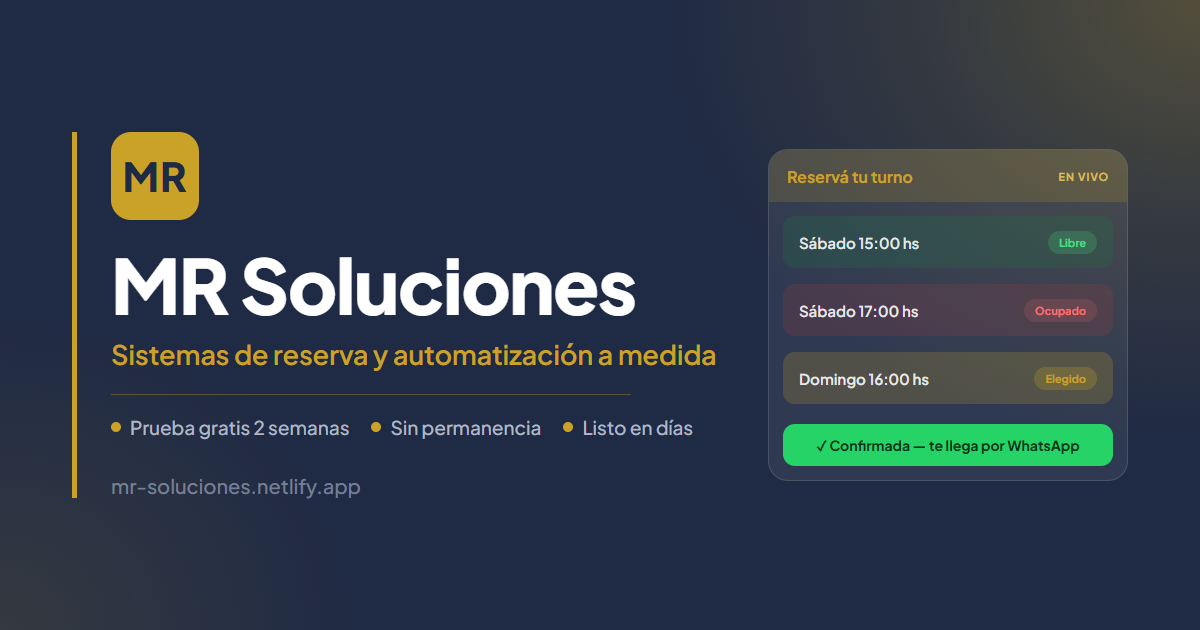
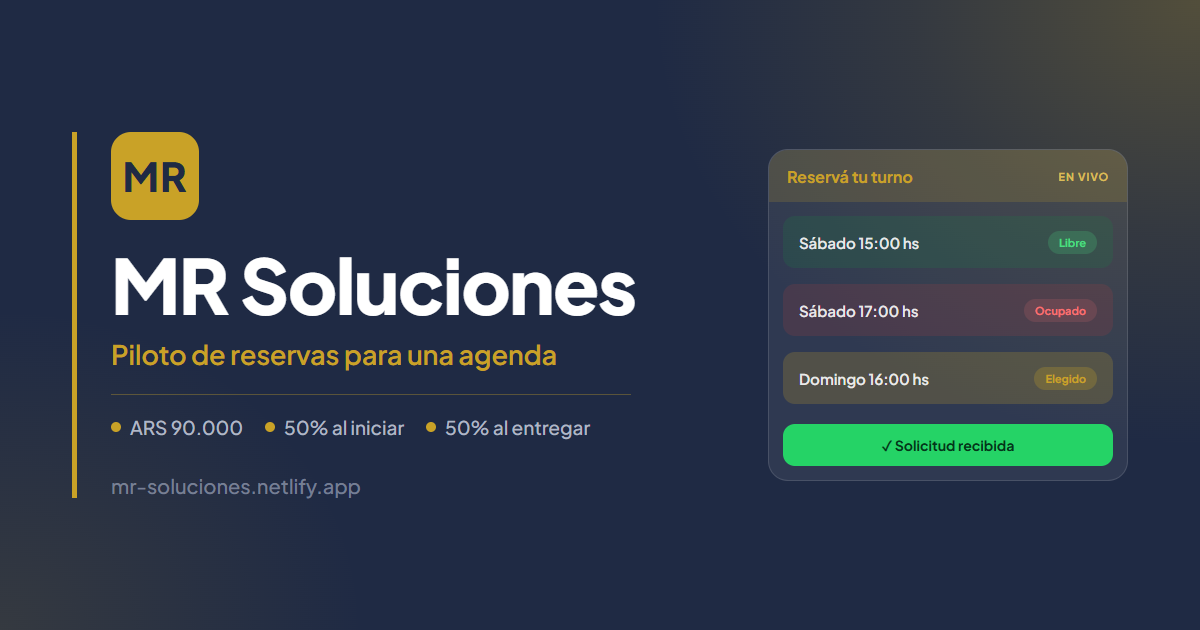
feat: presentar piloto pago de reservas

Changed region(s): [[0.0925, 0.5429, 0.6167, 0.6032], [0.0925, 0.6635, 0.5858, 0.6937], [0.6783, 0.6937, 0.8942, 0.7238]]

diff --git a/index.html b/index.html
@@ -4,13 +4,13 @@
 <meta charset="UTF-8" />
 <meta name="viewport" content="width=device-width, initial-scale=1.0" />
 <title>MR Soluciones — Sistemas de reserva y automatización a medida</title>
-<meta name="description" content="Dejá de perder clientes por desorden de agenda. Sistemas de reserva y automatización a medida para salones de fiestas, peluquerías, consultorios y más. Tu sistema andando en días, no en meses." />
+<meta name="description" content="Piloto de reservas para una agenda: solicitudes y disponibilidad en un solo lugar. ARS 90.000, 50% al iniciar y 50% contra la entrega acordada." />
 <meta name="theme-color" content="#1F2A44" />
 
 <!-- Open Graph (para WhatsApp / redes) -->
 <meta property="og:type" content="website" />
 <meta property="og:title" content="MR Soluciones — Sistemas de reserva a medida" />
-<meta property="og:description" content="Tu sistema de reservas andando en días, no en meses. Probalo gratis 2 semanas." />
+<meta property="og:description" content="Piloto de reservas para una agenda. ARS 90.000: 50% al iniciar y 50% contra la entrega acordada." />
 <meta property="og:image" content="https://mr-soluciones.netlify.app/assets/og.png" />
 <meta property="og:image:width" content="1200" />
 <meta property="og:image:height" content="630" />
@@ -285,20 +285,20 @@
 <section class="hero" id="inicio">
   <div class="wrap grid">
     <div class="reveal">
-      <span class="eyebrow">Sistemas a medida para tu negocio</span>
-      <h1>Dejá de perder clientes por <span class="hl">desorden de agenda</span></h1>
-      <p class="sub">Diseño sistemas de reserva y automatización a medida para tu negocio: turnos online, recordatorios automáticos y todo funcionando sin que vos tengas que estar atrás del teléfono.</p>
+      <span class="eyebrow">Piloto de reservas para tu negocio</span>
+      <h1>Ordená las solicitudes de turno <span class="hl">en un solo lugar</span></h1>
+      <p class="sub">Adapto un flujo de reservas para una agenda. Primero revisamos cómo trabajás; después acordamos el alcance y la prueba funcional antes de empezar.</p>
       <div class="cta-row">
         <a class="btn btn-wa btn-lg" href="#wa-link" data-wa>
           <svg viewBox="0 0 24 24"><path d="M.057 24l1.687-6.163a11.867 11.867 0 01-1.587-5.945C.16 5.335 5.495 0 12.05 0a11.817 11.817 0 018.413 3.488 11.824 11.824 0 013.48 8.414c-.003 6.557-5.338 11.892-11.893 11.892a11.9 11.9 0 01-5.688-1.448L.057 24zM6.597 20.13c1.676.995 3.276 1.591 5.392 1.592 5.448 0 9.886-4.434 9.889-9.885.002-5.462-4.415-9.89-9.881-9.892-5.452 0-9.887 4.434-9.889 9.884a9.86 9.86 0 001.523 5.26l-.999 3.648 3.965-.607zm11.387-5.464c-.074-.124-.272-.198-.57-.347-.297-.149-1.758-.868-2.031-.967-.272-.099-.47-.149-.669.149-.198.297-.768.967-.941 1.165-.173.198-.347.223-.644.074-.297-.149-1.255-.462-2.39-1.475-.883-.788-1.48-1.761-1.653-2.059-.173-.297-.018-.458.13-.606.134-.133.297-.347.446-.521.151-.172.2-.296.3-.495.099-.198.05-.372-.025-.521-.075-.148-.669-1.611-.916-2.206-.242-.579-.487-.501-.669-.51l-.57-.01c-.198 0-.52.074-.792.372s-1.04 1.016-1.04 2.479 1.065 2.876 1.213 3.074c.149.198 2.095 3.2 5.076 4.487.709.306 1.263.489 1.694.626.712.226 1.36.194 1.872.118.571-.085 1.758-.719 2.006-1.413.248-.695.248-1.29.173-1.414z"/></svg>
-          Hablemos por WhatsApp
+          Contame tu caso por WhatsApp
         </a>
         <a class="btn btn-ghost btn-lg" href="#demos">Ver demos en vivo</a>
       </div>
       <div class="trust">
-        <span><span class="dot"></span>Prueba gratis 2 semanas</span>
-        <span><span class="dot"></span>Sin permanencia</span>
-        <span><span class="dot"></span>Listo en días</span>
+        <span><span class="dot"></span>Una agenda</span>
+        <span><span class="dot"></span>Piloto ARS 90.000</span>
+        <span><span class="dot"></span>50% al iniciar · 50% al entregar</span>
       </div>
     </div>
 
@@ -312,7 +312,7 @@
             <div class="slot ok">Sábado 15:00 hs <span class="tag">Libre</span></div>
             <div class="slot busy">Sábado 17:00 hs <span class="tag">Ocupado</span></div>
             <div class="slot pick">Domingo 16:00 hs <span class="tag">Elegido</span></div>
-            <div class="confirm">✓ Reserva confirmada — te llega por WhatsApp</div>
+            <div class="confirm">✓ Solicitud recibida — pendiente de confirmación</div>
           </div>
         </div>
       </div>
@@ -326,7 +326,7 @@
     <div class="sec-head reveal">
       <span class="eyebrow">El problema</span>
       <h2>Lo que hoy te cuesta plata (y tiempo)</h2>
-      <p>Tres dolores que se repiten en todo negocio que trabaja con turnos. Yo los resuelvo de raíz.</p>
+      <p>Tres problemas que conviene revisar antes de elegir qué proceso ordenar.</p>
     </div>
 
     <div class="cards3">
@@ -346,7 +346,7 @@
         <div class="ic">🌙</div>
         <h3>Atención fuera de hora</h3>
         <p>El cliente quiere reservar a las 23 hs y vos ya cerraste. Si no le contestás al toque, se va con el de al lado. No podés estar 24/7.</p>
-        <div class="fix"><svg viewBox="0 0 24 24"><path d="M9 16.2l-3.5-3.5L4 14.2 9 19.2 20 8.2l-1.4-1.4z"/></svg> Reserva sola, de día y de noche</div>
+        <div class="fix"><svg viewBox="0 0 24 24"><path d="M9 16.2l-3.5-3.5L4 14.2 9 19.2 20 8.2l-1.4-1.4z"/></svg> La solicitud queda registrada para revisarla</div>
       </div>
     </div>
   </div>
@@ -438,26 +438,26 @@
   <div class="wrap">
     <div class="sec-head reveal">
       <span class="eyebrow">Cómo trabajo</span>
-      <h2>Simple, sin vueltas y sin riesgo</h2>
-      <p>Tres pasos. Empezás probando gratis y solo seguís si te sirve.</p>
+      <h2>Un piloto pago con alcance claro</h2>
+      <p>Una agenda por ARS 90.000: mitad al iniciar y mitad contra la entrega acordada.</p>
     </div>
 
     <div class="steps">
       <div class="step reveal">
         <div class="num"></div>
-        <h3>Charlamos</h3>
-        <p>Me contás cómo manejás hoy los turnos y qué te complica. En una charla por WhatsApp entiendo tu negocio y te digo qué se puede hacer.</p>
+        <h3>Revisamos tu proceso</h3>
+        <p>Me contás cómo recibís y confirmás los turnos. Definimos qué flujo conviene resolver y verificamos si el piloto encaja con tu negocio.</p>
       </div>
       <div class="step reveal">
         <div class="num"></div>
-        <h3>Lo probás gratis</h3>
-        <p>Armo tu sistema y lo usás <strong>2 semanas sin pagar nada</strong>. Probás con clientes reales y ves los resultados antes de decidir.</p>
-        <span class="free">2 semanas gratis</span>
+        <h3>Acordamos el piloto</h3>
+        <p>Dejamos por escrito una sede, una agenda, el flujo de solicitud, los entregables y la prueba de aceptación. El piloto cuesta <strong>ARS 90.000</strong>; abonás ARS 45.000 para iniciar.</p>
+        <span class="free">50% al iniciar</span>
       </div>
       <div class="step reveal">
         <div class="num"></div>
-        <h3>Lo dejás funcionando</h3>
-        <p>Si te sirve, queda andando y te lo dejo listo. Te muestro cómo usarlo y quedo disponible para los ajustes que necesites.</p>
+        <h3>Probamos y entrego</h3>
+        <p>Probamos juntos una solicitud, una confirmación y una reprogramación. Te enseño a usarlo; abonás los ARS 45.000 restantes contra la entrega acordada. Funciones y servicios externos pagos se acuerdan aparte.</p>
       </div>
     </div>
   </div>
@@ -485,11 +485,11 @@
 <section id="cierre">
   <div class="wrap">
     <div class="closebox reveal">
-      <h2>Tu sistema andando en <span style="color:var(--gold)">días, no en meses</span></h2>
-      <p>Sin formularios eternos ni reuniones interminables. Un mensaje y arrancamos.</p>
+      <h2>Empezá por <span style="color:var(--gold)">una agenda bien organizada</span></h2>
+      <p>Contame cómo gestionás hoy las solicitudes y vemos si este piloto encaja.</p>
       <a class="btn btn-wa btn-lg" href="#wa-link" data-wa>
         <svg viewBox="0 0 24 24"><path d="M.057 24l1.687-6.163a11.867 11.867 0 01-1.587-5.945C.16 5.335 5.495 0 12.05 0a11.817 11.817 0 018.413 3.488 11.824 11.824 0 013.48 8.414c-.003 6.557-5.338 11.892-11.893 11.892a11.9 11.9 0 01-5.688-1.448L.057 24zM6.597 20.13c1.676.995 3.276 1.591 5.392 1.592 5.448 0 9.886-4.434 9.889-9.885.002-5.462-4.415-9.89-9.881-9.892-5.452 0-9.887 4.434-9.889 9.884a9.86 9.86 0 001.523 5.26l-.999 3.648 3.965-.607zm11.387-5.464c-.074-.124-.272-.198-.57-.347-.297-.149-1.758-.868-2.031-.967-.272-.099-.47-.149-.669.149-.198.297-.768.967-.941 1.165-.173.198-.347.223-.644.074-.297-.149-1.255-.462-2.39-1.475-.883-.788-1.48-1.761-1.653-2.059-.173-.297-.018-.458.13-.606.134-.133.297-.347.446-.521.151-.172.2-.296.3-.495.099-.198.05-.372-.025-.521-.075-.148-.669-1.611-.916-2.206-.242-.579-.487-.501-.669-.51l-.57-.01c-.198 0-.52.074-.792.372s-1.04 1.016-1.04 2.479 1.065 2.876 1.213 3.074c.149.198 2.095 3.2 5.076 4.487.709.306 1.263.489 1.694.626.712.226 1.36.194 1.872.118.571-.085 1.758-.719 2.006-1.413.248-.695.248-1.29.173-1.414z"/></svg>
-        Hablemos por WhatsApp
+        Contame tu caso por WhatsApp
       </a>
       <div class="micro">Respondo personalmente · Tandil, Argentina</div>
     </div>
@@ -521,7 +521,7 @@
   // --- WhatsApp: número + mensaje precargado, un solo lugar para cambiarlo ---
   (function(){
     var PHONE = '5492494208215'; // +54 9 249 420-8215 (Tandil)
-    var MSG = 'Hola MR Soluciones! Vi la web y me interesa un sistema de reservas para mi negocio. ¿Cómo seguimos?';
+    var MSG = 'Hola Maxi, vi el piloto de reservas para una agenda. ¿Podemos revisar si encaja con mi negocio?';
     var href = 'https://wa.me/' + PHONE + '?text=' + encodeURIComponent(MSG);
     document.querySelectorAll('[data-wa]').forEach(function(a){
       a.setAttribute('href', href);

diff --git a/assets/og-generate.html b/assets/og-generate.html
@@ -153,12 +153,12 @@
   <div class="col left">
     <div class="mark">MR</div>
     <div class="name">MR Soluciones</div>
-    <div class="tagline">Sistemas de reserva y automatización a medida</div>
+    <div class="tagline">Piloto de reservas para una agenda</div>
     <div class="rule"></div>
     <div class="badges">
-      <span class="badge">Prueba gratis 2 semanas</span>
-      <span class="badge">Sin permanencia</span>
-      <span class="badge">Listo en días</span>
+      <span class="badge">ARS 90.000</span>
+      <span class="badge">50% al iniciar</span>
+      <span class="badge">50% al entregar</span>
     </div>
     <div class="url">mr-soluciones.netlify.app</div>
   </div>
@@ -170,7 +170,7 @@
       <div class="slot s-busy"><span>Sábado 17:00 hs</span><span class="tag">Ocupado</span></div>
       <div class="slot s-pick"><span>Domingo 16:00 hs</span><span class="tag">Elegido</span></div>
     </div>
-    <div class="confirm">✓ Confirmada — te llega por WhatsApp</div>
+    <div class="confirm">✓ Solicitud recibida</div>
   </div>
 
 </div>
